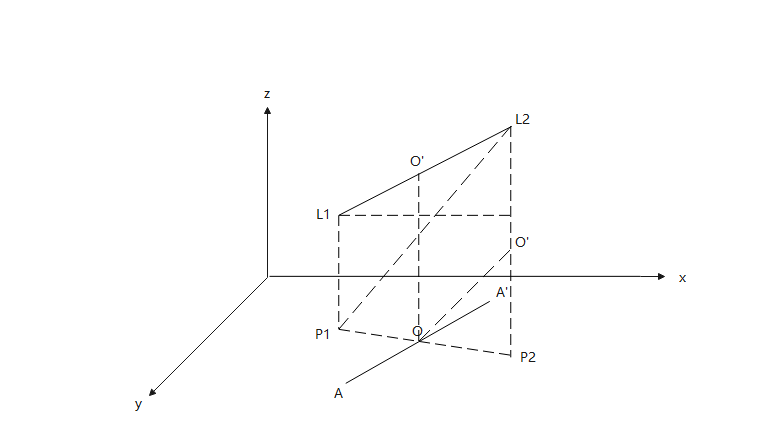
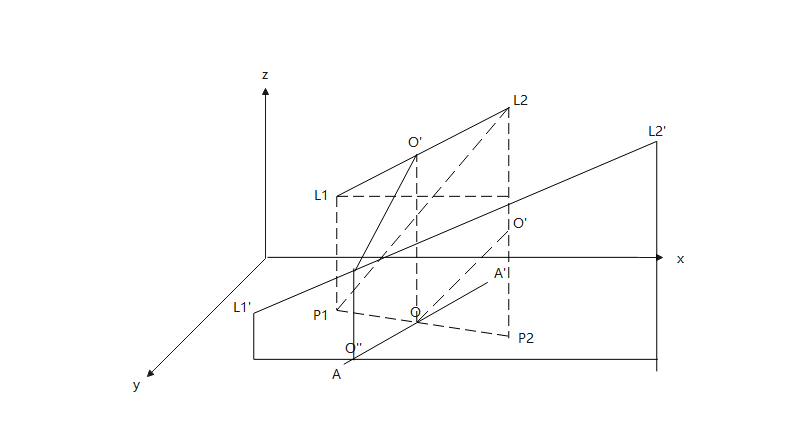
xiugai

diff --git a/index.md b/index.md
@@ -14,7 +14,7 @@ tGxAnaInfo.DmType = 0;<br>
 else<br>
 tGxAnaInfo.DmType = 1;<br>
 <h2>方管与圆管管径存储方式的区别是什么 dkhnd9762650shctri</h2>
-<h2>横剖面分析，计算长度时没有考虑高程，因此后续的高程插值计算与实际高程误差很大 sdkhfxvhujf92374682394hxid</h2>
+<h2>横剖面分析中的距离计算的是管线在xy平面投影的长度，需要确认一下横剖面分析里的间距是否是这个值 sdkhfxvhujf92374682394hxid</h2>
 <h2>对硬材料管的高程进行插值计算得出的结果与实际高程基本没有误差，但软材料插值出来的结果是存在一定误差的（随地面高程的改变而改变）（待商榷） 求管线某点高程（是否需要考虑DEM数据，DEM还在研究中）</h2>
 <h2>求管径的算法不一致，冗余  jxhfleinxv89236xhchd 与 jvjuhx[];.'1283 </h2>
 <h2>判断管网是否为排水的方法不一致，并且通过编码常量来定义，不支持后期改动 klnfhfkjebr824649123 与 sjdfhioxhgdksdjfh</h2>
@@ -68,16 +68,17 @@ sngDs = tGxAnaInfo.Ds2 * 0.001;<br>
 <h2>非排水：</h2>
 <h3>管线起点管底高程=起点高程-直径</h3>
 <h3>管线终点管底高程=终点高程-直径</h3>
+<br>
 <h3>管线起点中心高程=(起点高程+管线起点管底高程)/2</h3>
 <h3>管线终点中心高程=(终点高程+管线终点管底高程)/2</h3>
 
 <li><img src="img/21.png"/></li>
+<li><img src="img/1.png"/></li>
 <h3>管线起点到交点的距离</h3>
 CrsToP1 = Math.Sqrt(Math.Pow(tGxAnaInfo.CrsX - dX1, 2) + Math.Pow(tGxAnaInfo.CrsY - dY1, 2));
 <h3>管线长度</h3>
 P1ToP2 = Math.Sqrt(Math.Pow(dX1 - dX2, 2) + Math.Pow(dY1 - dY2, 2));
 <h3>管线断点处中心高程</h3>
-<li><img src="img/1.png"/></li>
 tGxAnaInfo.CrsCenH = (tGxAnaInfo.CenH2 - tGxAnaInfo.CenH1) * CrsToP1 / P1ToP2 + tGxAnaInfo.CenH1;
 <h3>断点处管顶高程=断点中心点高程+半径</h3>
 tGxAnaInfo.CrsTopH = tGxAnaInfo.CrsCenH + sngDs * 0.5;
